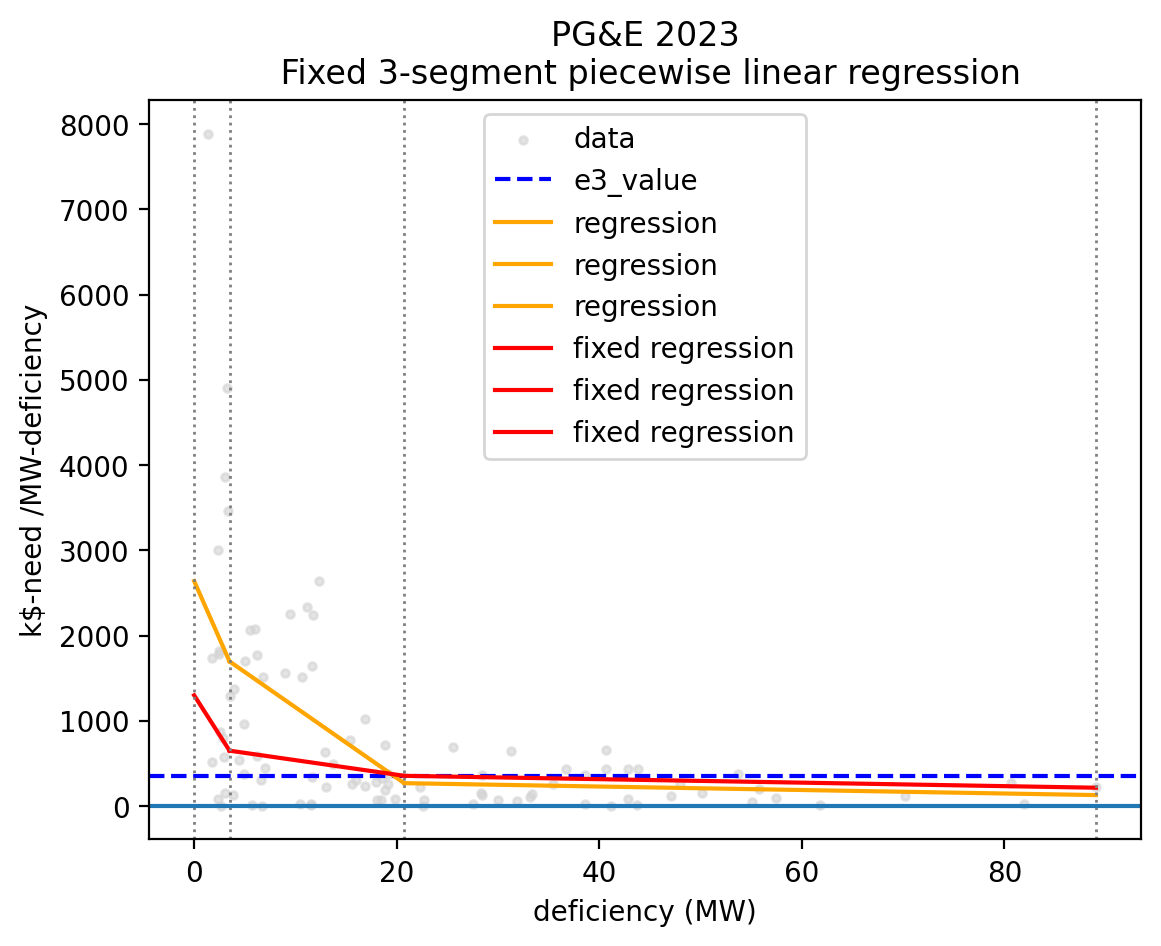
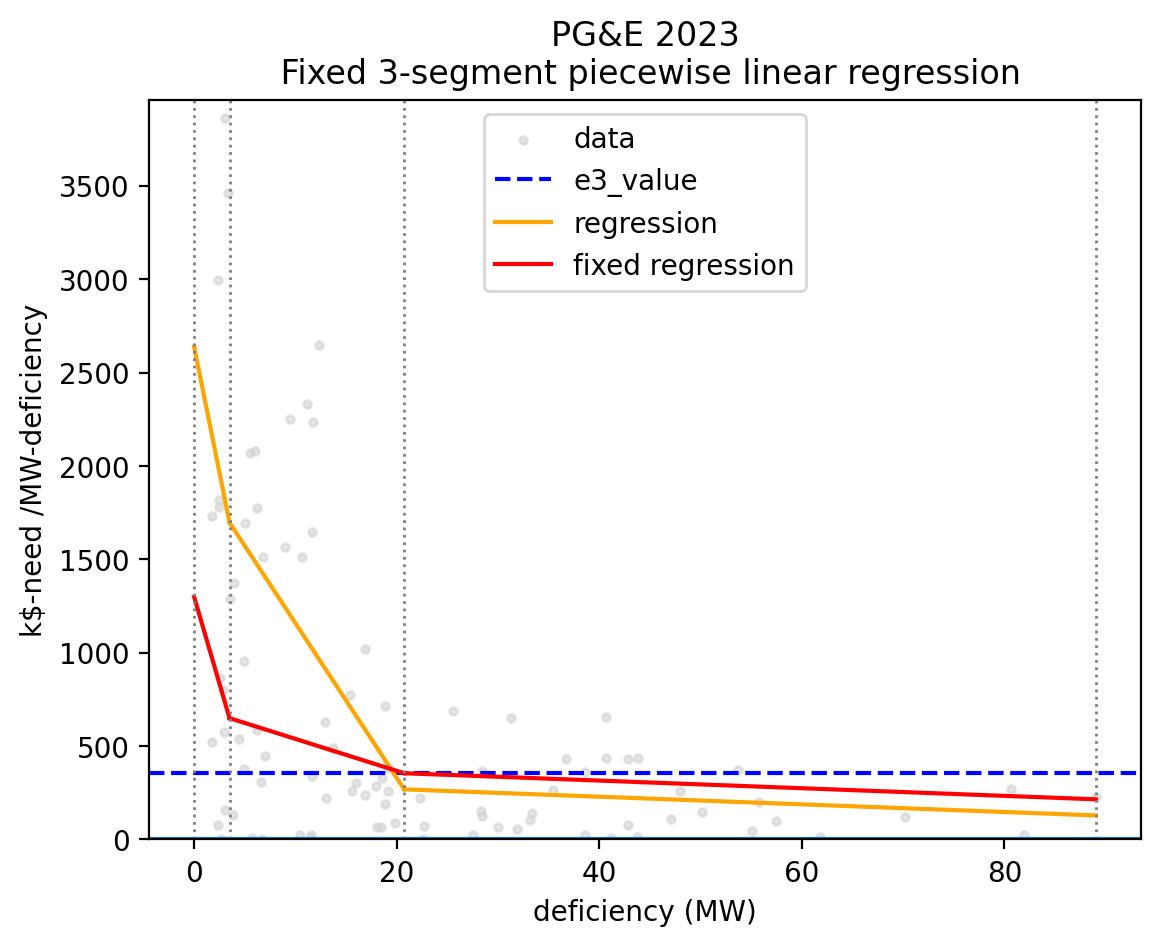
as presented to the PUC.

diff --git a/cost_calculations.py b/cost_calculations.py
@@ -2,6 +2,44 @@ import pandas as pd
 from feeder_transfers import feeder_transfers
 
 
+
+def plot_results(avoided_costs, label, utility):
+
+    import matplotlib.pyplot as plt
+
+    # data
+    x = avoided_costs
+
+    # split
+    x_nonzero = x[x > 0]
+    zero_count = (x == 0).sum()
+    nonzero_count = (x > 0).sum()
+
+    mean_nonzero = x_nonzero.mean()
+
+    # figure with two panes
+    fig, axes = plt.subplots(1, 2, figsize=(10, 4))
+
+    # left: pie chart (zero vs non-zero)
+    axes[0].pie(
+        [zero_count, nonzero_count],
+        labels=["zero", "non-zero"],
+        autopct="%1.1f%%",
+        colors=["gray", "orange"]
+    )
+    axes[0].set_title(f"Zero vs Non-zero {label} \n avoided costs across banks/feeders")
+
+    # right: histogram (non-zero)
+    axes[1].hist(x_nonzero, bins=50, color="orange")
+    axes[1].axvline(mean_nonzero, color="brown", linestyle="--", label="mean")
+    axes[1].set_xlabel("cost ($/kW)")
+    axes[1].set_ylabel("count")
+    axes[1].set_title("Non-zero cost distribution")
+
+    plt.tight_layout()
+    plt.savefig(f"distribution_{utility}_{label}.png", dpi=200, bbox_inches="tight")
+    plt.close()
+
 def get_unit_cost_of_deficiencies(df, pl_approx):
     """
     :param df: data frame with the deficiencies
@@ -48,9 +86,9 @@ def acc_calculations(ddor, gna, utility_marginal_cost_factor=0.082,
 
     # remove feeder transfers
     df = feeder_transfers(df_original,
-                          method='linear',
+                          method='low_quartile', #'linear' #low_quartile
                           portion=feeder_transfers_ratio,
-                          include_actual=assume_transfers_actual)
+                          include_actual= assume_transfers_actual)
 
     # calculate deferred deficiencies in the counterfactual scenario
     deferred_deficiencies = pd.DataFrame()
@@ -89,15 +127,41 @@ def acc_calculations(ddor, gna, utility_marginal_cost_factor=0.082,
         '2024 Methodology': acc2024_method_avoided_cost,
         'New Aggregated': avoided_costs_yr_aggregated,
         'New Disaggregated (Mean)': avoided_costs_yr_disaggregated.mean(),
+        'New Disaggregated (Max)': avoided_costs_yr_disaggregated.max(),
+        'New Disaggregated (Min)': avoided_costs_yr_disaggregated.min(),
     })
 
-    print(df_comparison)
+    df_comparison.to_csv(f'comparison_aggregate_{gna.utility_name}.csv')
+
+
+    for c in ['dec' ,'inc']:
+        plot_results(avoided_costs=avoided_costs_yr_disaggregated[c],
+                     label= c+'reasing', utility=gna.utility_name)
+
 
     """
-    potential re-aggregation
-    
+    # analysis pge.
+    md = pd.read_csv('approach2_organized.csv', index_col=0)
+    x = avoided_costs_yr_disaggregated.join(md.drop(['dec', 'inc'], axis=1))
+
+    # drop na
+    ratio = x['dual_DER- (act)'] * -1
+    mean_val = ratio.loc[ratio> 0].mean()
+    ratio.loc[ratio == 0] = mean_val
+    ratio = ratio.fillna(1)
+
+    der_efficiency = der.mul(1/ratio, axis=0).sum()
+
+    avoided_costs_aggregated = avoided_cost_yr.mul(
+        ratio, axis=0).sum()/ (-der).sum()
+
+    avoided_costs_disaggregated = avoided_cost_yr.abs().div(
+        der_efficiency.abs()).replace([float('inf'), -float('inf')], 0).fillna(0)
+
+
+
     info = gna_data[['area', 'division', 'facility_type', 'facility_name']]
-    rep = info.join(avoided_cost).join(der, rsuffix="_der")
+    rep = info.join(avoided_cost_yr).join(der, rsuffix="_der")
 
     s = rep.groupby(['division']).sum()
     for c in ['net' ,'dec' ,'inc']:
@@ -106,4 +170,5 @@ def acc_calculations(ddor, gna, utility_marginal_cost_factor=0.082,
     s = s[[c for c in s.columns if 'res_' in c]]
 
     s = info[['facility_name', 'facility_type']].join(df, rsuffix="_def_mw").join(der, rsuffix="_der_mw")
+    
     """

diff --git a/main.py b/main.py
@@ -12,7 +12,6 @@ if __name__ == '__main__':
         'Confidential- E3 Calculations - 2024 ACC Distribution Data20250403112056'
     )
 
-    """
     ########################
     # PGE
     ########################
@@ -37,7 +36,6 @@ if __name__ == '__main__':
 
     acc_calculations(pge_d, pge_g, utility_marginal_cost_factor=0.0832)
 
-    """
 
     ########################
     # SCE
@@ -87,3 +85,30 @@ if __name__ == '__main__':
                      utility_marginal_cost_factor=0.1148,
                      feeder_transfers_ratio=0.2)
 
+
+
+    ########################
+    # SDGE
+    ########################
+
+    # read sdge ddor
+    sdge_ddor_file_2023 = os.path.join(data_folder_2023, 'SDG&E_working draft_to_share.xlsx')
+    sdge_ddor_dict_2023   = 'parser_data/ddor/ddor_2023_sdge_parser.csv'
+    sdge_d = DDOR(utility_name="SDG&E",
+                  year=2023,
+                  file_path=sdge_ddor_file_2023,
+                  parsing_dictionary=sdge_ddor_dict_2023)
+
+    # read sdge gna
+    sdge_gna_file_2023 = os.path.join(data_folder_2023, 'SDG&E_working draft_to_share.xlsx')
+    sdge_gna_dict_2023 = 'parser_data/gna/gna_2023_sdge_parser.csv'
+    sdge_kl_dict_2023 = 'parser_data/known_loads/kl_2023_sdge_parser.csv'
+    sdge_g = GNA(utility_name="SDG&E",
+                   year_start=2023, year_end=2027)
+    sdge_g.add_records(xls_file=sdge_gna_file_2023,
+                         parsing_csv_file=sdge_gna_dict_2023)
+    sdge_g.add_records(xls_file=sdge_gna_file_2023,
+                         parsing_csv_file=sdge_kl_dict_2023)
+
+    acc_calculations(sdge_d, sdge_g, feeder_transfers_ratio=0.09,
+                     utility_marginal_cost_factor=0.0766)

diff --git a/gna.py b/gna.py
@@ -86,7 +86,7 @@ class GNA:
             self.gna_data = df
         else:
             x = self.gna_data.set_index('facility_id')
-            df = df.groupby(['facility_id']).sum()
+            df = df.groupby(['facility_id']).sum(numeric_only=True)
             x = x.join(df, rsuffix='dRoP')
             x = x.drop([c for c in x.columns if 'dRoP' in c], axis=1)
             x = x.fillna(0)
@@ -120,11 +120,20 @@ class GNA:
 
          # calculate counterfactual and actual deficiencies
         counterfactual = pd.DataFrame()
+
+        """
+        # method with 2023 ratings
         counterfactual['net'] = net.sub(rating['2023'], axis=0).clip(lower=0).max(axis=1)
         counterfactual['dec'] = dec.sub(rating['2023'], axis=0).clip(lower=0).max(axis=1)
         counterfactual['inc'] = inc.sub(rating['2023'], axis=0).clip(lower=0).max(axis=1)
         actual_def = load_act.sub(rating['2023'], axis=0).clip(lower=0).max(axis=1)
-        #actual_def = (load_act - rating).clip(lower=0).max(axis=1)
+        """
+
+        # method with annual ratings
+        counterfactual['net'] = (net - rating).clip(lower=0).max(axis=1)
+        counterfactual['dec'] = (dec - rating).clip(lower=0).max(axis=1)
+        counterfactual['inc'] = (inc - rating).clip(lower=0).max(axis=1)
+        actual_def = (load_act - rating).clip(lower=0).max(axis=1)
 
         der_red = pd.DataFrame()
         der_red['net'] = (load_dec + load_inc).sum(axis=1)

diff --git a/ddor.py b/ddor.py
@@ -191,18 +191,25 @@ class DDOR:
             for i in range(len(slopes)):
                 x_seg = np.linspace(s[i], s[i + 1], n)
                 y_seg = slopes[i] * x_seg + intercepts[i]
-                plt.plot(x_seg, y_seg, color="orange", label='regression')
+                plt.plot(x_seg, y_seg, color="orange",  label='regression' if i == 0 else None)
 
             if fix:
                 # linear segments: blue
                 for i in range(len(slopes)):
                     x_seg = np.linspace(s[i], s[i + 1], n)
                     y_seg = slopes_fixed[i] * x_seg + intercepts_fixed[i]
-                    plt.plot(x_seg, y_seg, color="red", label='fixed regression')
+                    plt.plot(x_seg, y_seg, color="red", label='fixed regression' if i == 0 else None)
 
             # segment boundaries: dotted grey
             for xi in s:
                 plt.axvline(xi, linestyle=":", color="grey", linewidth=1)
+
+            ymin = 0
+            ymax = intercepts[0] * 1.5
+            plt.ylim(bottom=ymin, top=ymax)
+
+            xmax = min(plt.gca().get_xlim()[1], 100)
+            plt.xlim(right=xmax)
 
             plt.axhline(0)
 
